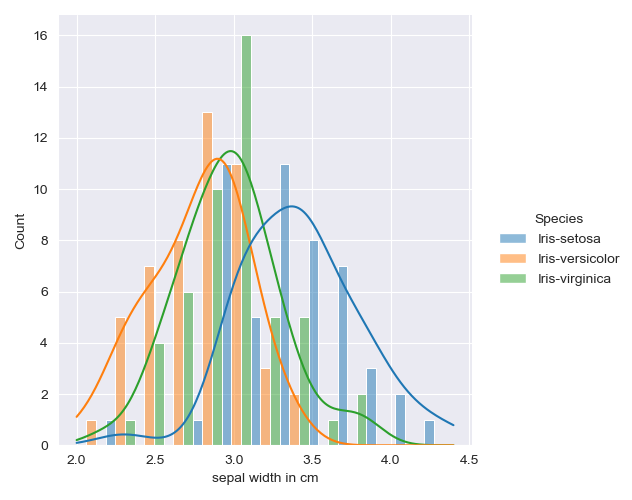
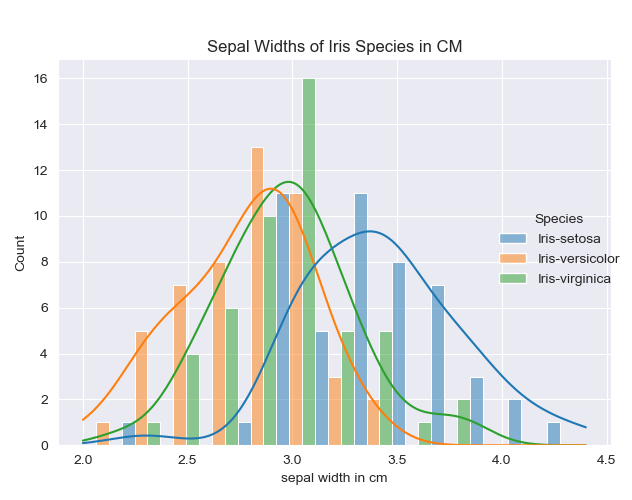
Fix titles on box plots and formatting

diff --git a/analysis.py b/analysis.py
@@ -37,12 +37,8 @@ with open("iris_summary.txt", "w") as f:
     f.write("Table Summary of the Statistics of the Data Set Variables:\n\n" + descriptives.to_string() + "\n\n\n")
     f.write("The Iris data set is a balaced data set.\nBreakdown of the data by species:\n\n" + str(irisData["Species"].value_counts()) 
     + "\n\n\n")
-
     f.write("Digging Deeper into the Data - Examining by Species\n\n\n\n")
-    # Max, Min & Median values of each attribute by class
-    f.write("Maximum values for each attribute by Species: \n\n" + str(irisData.groupby('Species').max()) +"\n\n")
-    f.write("Minimum values for each attribute by Species: \n\n" + str(irisData.groupby('Species').min()) +"\n\n")
-    f.write("Median values for each attribute by Species: \n\n" + str(irisData.groupby('Species').median()) +"\n\n")
+    # Mean, Median, Max & Min values of each attribute by class
     f.write("Pivot Table Showing Each Species Mean Measurements: \n\n" + str(irisData.pivot_table(index='Species', values=["sepal length in cm", "sepal width in cm", "petal length in cm", "petal width in cm"], aggfunc=np.mean)) + "\n\n")
     f.write("Pivot Table Showing Each Species Median Measurements: \n\n" + str(irisData.pivot_table(index='Species', values=["sepal length in cm", "sepal width in cm", "petal length in cm", "petal width in cm"], aggfunc=np.median)) + "\n\n")
     f.write("Pivot Table Showing Each Species Max Measurements: \n\n" + str(irisData.pivot_table(index='Species', values=["sepal length in cm", "sepal width in cm", "petal length in cm", "petal width in cm"], aggfunc=np.max)) + "\n\n")
@@ -57,12 +53,17 @@ with open("iris_summary.txt", "w") as f:
 sns.set_style("darkgrid")
 sns.displot(irisData, x = "sepal length in cm", hue="Species", kde=True, multiple="dodge") # hue color codes by that variable
 # dodge makes the different species easier to see # kde adds a kernal density estimator line to the plot
-# Saves the plot as a png image
-plt.savefig('Histogram_All_SepalLength.png')
-plt.show() # Clears the plot so a new plot can be created. Without this, the subsequent plots are combined into the previous plot
+plt.title("Sepal Lengths of Iris Species in CM")
+plt.tight_layout()  # tightens layout to help prevent titles from being cut off
+plt.subplots_adjust(top=0.88) # adjusts top to prevents title from being cut off
+plt.savefig('Histogram_All_SepalLength.png') # Saves the plot as a png image
+plt.show() # pops up the image of the plot when the program runs
 
 sns.set_style("darkgrid")
 sns.displot(data=irisData, x="sepal length in cm", hue="Species", col="Species", kde=True)  
+plt.suptitle("Sepal Lengths in CM")
+plt.tight_layout() 
+plt.subplots_adjust(top=0.88) 
 plt.savefig('Histogram_Individual_SepalLength.png')
 plt.show() 
 
@@ -70,12 +71,17 @@ plt.show()
 sns.set_style("darkgrid")
 sns.displot(irisData, x = "sepal width in cm", hue="Species", kde=True, multiple="dodge") # hue color codes by that variable
 # dodge makes the different species easier to see # kde adds a kernal density estimator line to the plot
-# Saves the plot as a png image
-plt.savefig('Histogram_All_SepalWidth.png')
+plt.title("Sepal Widths of Iris Species in CM")
+plt.tight_layout() 
+plt.subplots_adjust(top=0.88) 
+plt.savefig('Histogram_All_SepalWidth.png') # Saves the plot as a png image
 plt.show() # Clears the plot so further plots can be created.
 
 sns.set_style("darkgrid")
-sns.displot(data=irisData, x="sepal width in cm", hue="Species", col="Species", kde=True)  
+sns.displot(data=irisData, x="sepal width in cm", hue="Species", col="Species", kde=True) 
+plt.suptitle("Sepal Width in CM")
+plt.tight_layout() 
+plt.subplots_adjust(top=0.88)  
 plt.savefig('Histogram_Individual_SepalWidth.png')
 plt.show() 
 
@@ -83,12 +89,17 @@ plt.show()
 sns.set_style("darkgrid")
 sns.displot(irisData, x = "petal length in cm", hue="Species", kde=True, multiple="dodge") # hue color codes by that variable
 # dodge makes the different species easier to see # kde adds a kernal density estimator line to the plot
-# Saves the plot as a png image
-plt.savefig('Histogram_All_PetalLength.png')
+plt.title("Petal Length of Iris Species in CM")
+plt.tight_layout() 
+plt.subplots_adjust(top=0.88) 
+plt.savefig('Histogram_All_PetalLength.png')# Saves the plot as a png image
 plt.show() # Clears the plot so further plots can be created.
 
 sns.set_style("darkgrid")
 sns.displot(data=irisData, x="petal length in cm", hue="Species", col="Species", kde=True)  
+plt.suptitle("Petal Length in CM")
+plt.tight_layout() 
+plt.subplots_adjust(top=0.88) 
 plt.savefig('Histogram_Individual_PetalLength.png')
 plt.show() 
 
@@ -96,12 +107,17 @@ plt.show()
 sns.set_style("darkgrid")
 sns.displot(irisData, x = "petal width in cm", hue="Species", kde=True, multiple="dodge") # hue color codes by that variable
 # dodge makes the different species easier to see # kde adds a kernal density estimator line to the plot
-# Saves the plot as a png image
-plt.savefig('Histogram_All_PetalWidth.png')
+plt.title("Petal Width of Iris Species in CM")
+plt.tight_layout() 
+plt.subplots_adjust(top=0.88) 
+plt.savefig('Histogram_All_PetalWidth.png')# Saves the plot as a png image
 plt.show() # Clears the plot so further plots can be created. 
 
 sns.set_style("darkgrid")
-sns.displot(data=irisData, x="petal width in cm", hue="Species", col="Species", kde=True)  
+sns.displot(data=irisData, x="petal width in cm", hue="Species", col="Species", kde=True)
+plt.suptitle("Petal Width in CM")
+plt.tight_layout() 
+plt.subplots_adjust(top=0.88)   
 plt.savefig('Histogram_Individual_PetalWidth.png')
 plt.show()
 
@@ -155,6 +171,7 @@ sns.FacetGrid(irisData, hue="Species", size=4).map(plt.scatter,"sepal length in 
 # Facet grid shows conditional relationships. Hue specifies what variable sets the color coding of the plot. 
 #.map sets the type of plot and then columns for the x and y axis. Legend had to be added to explain what the colors represent.
 plt.title("Examining Sepal Length and Sepal Width Correlation")
+plt.subplots_adjust(top=0.88) # adjusts height so title isnt cut off
 plt.savefig("scatter_sl_sw.png")
 plt.show()
 
@@ -162,6 +179,7 @@ plt.show()
 sns.set_style("whitegrid")
 sns.FacetGrid(irisData, hue="Species", size=4).map(plt.scatter,"sepal length in cm","petal length in cm").add_legend()
 plt.title("Examining Sepal Length and Petal Length Correlation")
+plt.subplots_adjust(top=0.88)
 plt.savefig("scatter_sl_pl.png")
 plt.show()
 
@@ -169,6 +187,7 @@ plt.show()
 sns.set_style("whitegrid")
 sns.FacetGrid(irisData, hue="Species", size=4).map(plt.scatter,"sepal length in cm","petal width in cm").add_legend()
 plt.title("Examining Sepal Length and Petal Width Correlation")
+plt.subplots_adjust(top=0.88)
 plt.savefig("scatter_sl_pw.png")
 plt.show()
 
@@ -176,6 +195,7 @@ plt.show()
 sns.set_style("whitegrid")
 sns.FacetGrid(irisData, hue="Species", size=4).map(plt.scatter,"sepal width in cm","petal length in cm").add_legend()
 plt.title("Examining Sepal Width and Petal Length Correlation")
+plt.subplots_adjust(top=0.88)
 plt.savefig("scatter_sw_pl.png")
 plt.show()
 
@@ -183,6 +203,7 @@ plt.show()
 sns.set_style("whitegrid")
 sns.FacetGrid(irisData, hue="Species", size=4).map(plt.scatter,"sepal width in cm","petal width in cm").add_legend()
 plt.title("Examining Sepal Width and Petal Width Correlation")
+plt.subplots_adjust(top=0.88)
 plt.savefig("scatter_sw_pw.png")
 plt.show()
 
@@ -190,6 +211,7 @@ plt.show()
 sns.set_style("whitegrid")
 sns.FacetGrid(irisData, hue="Species", size=4).map(plt.scatter,"petal length in cm","petal width in cm").add_legend()
 plt.title("Examining Petal Length and Petal Width Correlation")
+plt.subplots_adjust(top=0.88)
 plt.savefig("scatter_pl_pw.png")
 plt.show()
 

diff --git a/README.md b/README.md
@@ -237,14 +237,6 @@ Iris-virginica     50
 Iris-versicolor    50
 Name: Species, dtype: int64``
 
-  
-
-Issues encountered: 
-for ``.info`` getting:    ``<bound dataframe.info issue``
-look at the <bound dataframe.info issue later -- https://stackoverflow.com/questions/46239946/attempt-to-access-dataframe-column-displays-bound-method-ndframe-xxx
-https://www.reddit.com/r/learnprogramming/comments/3yx9er/python_what_does_it_mean_to_call_something/
-        Also key: https://pandas.pydata.org/pandas-docs/version/0.25.3/reference/api/pandas.DataFrame.info.html
- Issues with reading in -- tried .df and didnt work -- tried without and got errors but solved with using str to convert tuples into writeable format. Add step by step instructions here. shape - w3schools.com "Numpy Array Shape" Available: https://www.w3schools.com/python/numpy/numpy_array_shape.asp [Accessed 19 April 2021]. Pandas Dataframe.info would not print to the doc pandas.pydata.org "Pandas DataFrame.Info" Available: https://pandas.pydata.org/docs/reference/api/pandas.DataFrame.info.html [Accessed 19 April 2021].  learndatasci.org Pandas Python Tutorial Available: https://www.learndatasci.com/tutorials/python-pandas-tutorial-complete-introduction-for-beginners/  [Accessed 19 April 2021]. 
 
 ## 3.4 Drilling into the Data - Parsing by Species of Iris  
 
@@ -365,6 +357,8 @@ returns:
 [9] tutorialspoint.com "Python Pandas Descriptive Statistics" Available: tutorialspoint.com/python_pandas/python_pandas_descriptive_statistics.htm [Accessed 20 April 2021].
 [10] pandas.pydata.org "Pandas .DataFrame.value_counts" Available: https://pandas.pydata.org/docs/reference/api/pandas.DataFrame.value_counts.html [Accessed 20 April 2021].
 [11] pydata.org "Pandas pivot_table" Available: https://pandas.pydata.org/docs/reference/api/pandas.pivot_table.html [Accessed 21 April 2021].
+[12] pandas.pydata.org "Pandas DataFrame.Info" Available: https://pandas.pydata.org/docs/reference/api/pandas.DataFrame.info.html [Accessed 19 April 2021].  
+[13]learndatasci.org Pandas Python Tutorial Available: https://www.learndatasci.com/tutorials/python-pandas-tutorial-complete-introduction-for-beginners/  [Accessed 19 April 2021]. 
 
 # 4 Visualising the Data
 I chose to use the Python library Seaborn which builds upon Matplotlib to create high quality statistical graphics [1]. 
@@ -389,7 +383,9 @@ The bin is when the entire range of values is divided into a series of intervals
 Since there are multiple variables we are looking at, ``multiple="dodge"`` is used to display them more clearly in the histographs that contain data regarding all three species of Iris [6]. Other options were using a "layer" or "step" approach but in this case the dodge made it easiest to see the counts of measurements the distinctive Iris types.
 
 ``plt.grid()`` A grid is used to make understanding the data easier. 
-
+``plt.title("Sepal Lengths of Each Iris Species")`` added a title to the grid.
+``plt.tight_layout()`` helped with formatting so that the title would be seen.
+``plt.subplots_adjust(top=0.88)`` this adjustment because the title kept getting cut off in the saved plot image [9].
 ``plt.savefig('Histogram_All_SepalLength.png')`` Matplotlib Pyplot has an option to save plots into a image file such as a png. [7] This saves to the current working directory.
 ``plt.clf()`` This clears the current figure from the code so that it does not add all the plots to one file [8]
 
@@ -403,11 +399,17 @@ Code block:
     sns.displot(irisData, x = "sepal length in cm", hue="Species", kde=True, multiple="dodge") # hue color codes by that variable
     \# dodge makes the different species easier to see # kde adds a kernal density estimator line to the plot
     \# Saves the plot as a png image
+    plt.title("Sepal Lengths of Each Iris Species")
+    plt.tight_layout()
+    plt.subplots_adjust(top=0.88)
     plt.savefig('Histogram_All_SepalLength.png')
     plt.show() # Clears the plot so a new plot can be created. Without this, the subsequent plots are combined into the previous plot
 
     sns.set_style("darkgrid")
-    sns.displot(data=irisData, x="sepal length in cm", hue="Species", col="Species", kde=True)  
+    sns.displot(data=irisData, x="sepal length in cm", hue="Species", col="Species", kde=True) 
+    plt.title("Sepal Lengths in CM")
+    plt.tight_layout()
+    plt.subplots_adjust(top=0.88) 
     plt.savefig('Histogram_Individual_SepalLength.png')
     plt.show() 
 
@@ -416,11 +418,17 @@ Code block:
     sns.displot(irisData, x = "sepal width in cm", hue="Species", kde=True, multiple="dodge") # hue color codes by that variable
     \# dodge makes the different species easier to see # kde adds a kernal density estimator line to the plot
     \# Saves the plot as a png image
+    plt.title("Sepal Width of Each Iris Species")
+    plt.tight_layout()
+    plt.subplots_adjust(top=0.88)
     plt.savefig('Histogram_All_SepalWidth.png')
     plt.show() # Clears the plot so further plots can be created.
 
     sns.set_style("darkgrid")
-    sns.displot(data=irisData, x="sepal width in cm", hue="Species", col="Species", kde=True)  
+    sns.displot(data=irisData, x="sepal width in cm", hue="Species", col="Species", kde=True)
+    plt.title("Sepal Widths in CM")
+    plt.tight_layout()
+    plt.subplots_adjust(top=0.88)  
     plt.savefig('Histogram_Individual_SepalWidth.png')
     plt.show() 
 
@@ -429,11 +437,17 @@ Code block:
     sns.displot(irisData, x = "petal length in cm", hue="Species", kde=True, multiple="dodge") # hue color codes by that variable
     \# dodge makes the different species easier to see # kde adds a kernal density estimator line to the plot
     \# Saves the plot as a png image
+    plt.title("Petal Lengths of Each Iris Species")
+    plt.tight_layout()
+    plt.subplots_adjust(top=0.88)
     plt.savefig('Histogram_All_PetalLength.png')
     plt.show() # Clears the plot so further plots can be created.
 
     sns.set_style("darkgrid")
     sns.displot(data=irisData, x="petal length in cm", hue="Species", col="Species", kde=True)  
+    plt.title("Petal Lengths in CM")
+    plt.tight_layout()
+    plt.subplots_adjust(top=0.88)
     plt.savefig('Histogram_Individual_PetalLength.png')
     plt.show() 
 
@@ -442,11 +456,17 @@ Code block:
     sns.displot(irisData, x = "petal width in cm", hue="Species", kde=True, multiple="dodge") # hue color codes by that variable
     \# dodge makes the different species easier to see # kde adds a kernal density estimator line to the plot
     \# Saves the plot as a png image
+    plt.title("Petal Width of Each Iris Species")
+    plt.tight_layout()
+    plt.subplots_adjust(top=0.88)
     plt.savefig('Histogram_All_PetalWidth.png')
     plt.show() # Clears the plot so further plots can be created. 
 
     sns.set_style("darkgrid")
     sns.displot(data=irisData, x="petal width in cm", hue="Species", col="Species", kde=True)  
+    plt.title("Petal Width of Each Iris Species")
+    plt.tight_layout()
+    plt.subplots_adjust(top=0.88)
     plt.savefig('Histogram_Individual_PetalWidth.png')
     plt.show()
 
@@ -493,6 +513,7 @@ Examing the histogram of all the species plotted on one histogram it is interest
 [6] seaborn.pydata.org "Seaborn Distrubution Tutorial" Available: https://seaborn.pydata.org/tutorial/distributions.html [Accessed 22 April 2021].
 [7] Matplotlib.org "Pyplot Savefig" Available: https://matplotlib.org/stable/api/_as_gen/matplotlib.pyplot.savefig.html [Accessed 22 April 2021]
 [8] Matplotlib.org "Pyplot.clf" Available: https://matplotlib.org/stable/api/_as_gen/matplotlib.pyplot.clf.html [Accessed 22 April 2021].
+[9] Davison, TM. Stackoverflow.com: "Python: Savefig cuts off title " Available: https://stackoverflow.com/questions/35992492/python-savefig-cuts-off-title [Accessed 29 April 2021].
 
 # 4.2 Making Boxplots:  
 A box plot is useful in explanatory data analysis. It helps summarise the dataset and show the distribution and can be particularly helpful in pointing out if there are outliers to the dataset which might through off some of the analysis [1]. Knowing whether there are outliers is important if this analysis might later be used to create machine learning algorithms. This program does not go into that area of exploration, but just wanted to note the occurances of outliers.  I overlayed the boxplots with a swarmplot which is like a strip plot, but with the points displayed vertically rather than on top of each other [3] for a more accurate picture of the occurances of observations and to emphasize outliers.
@@ -538,7 +559,7 @@ ax1.set_xlabel("Sepal Lenght in cm")
     plt.show()
 
 **Output and Observations**:
-![box_plot](Histogram_Individual_PetalWidth.png)
+![box_plot](IrisBoxplots.png)
 
 The box and swarm plots show there are a few outliers from the data.  
 There is an outlier in *Iris virginica* with one observation of sepal width much smaller than the rest of the species.  
